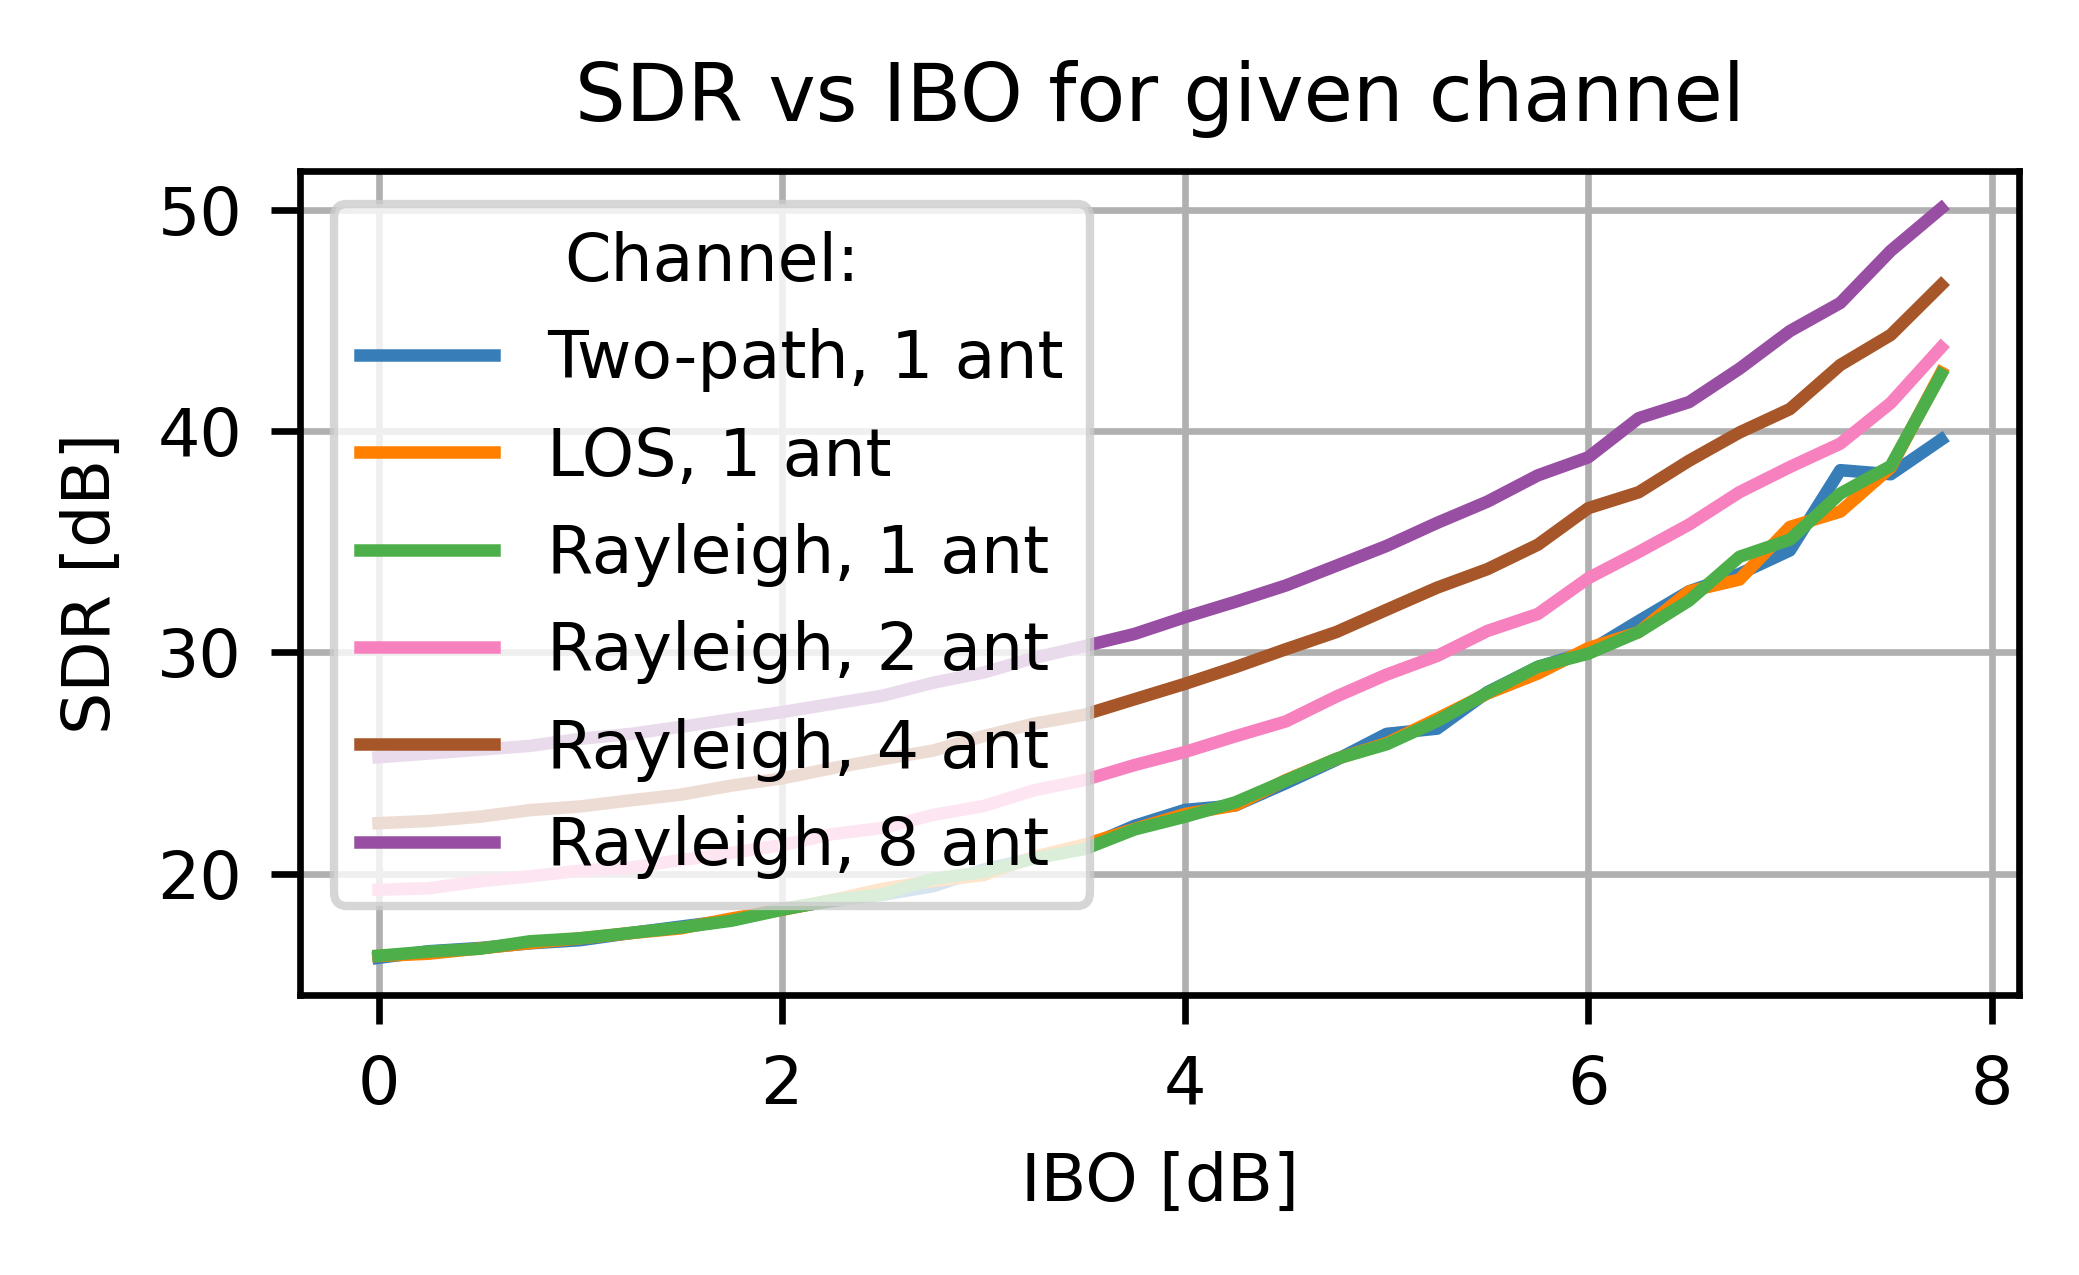
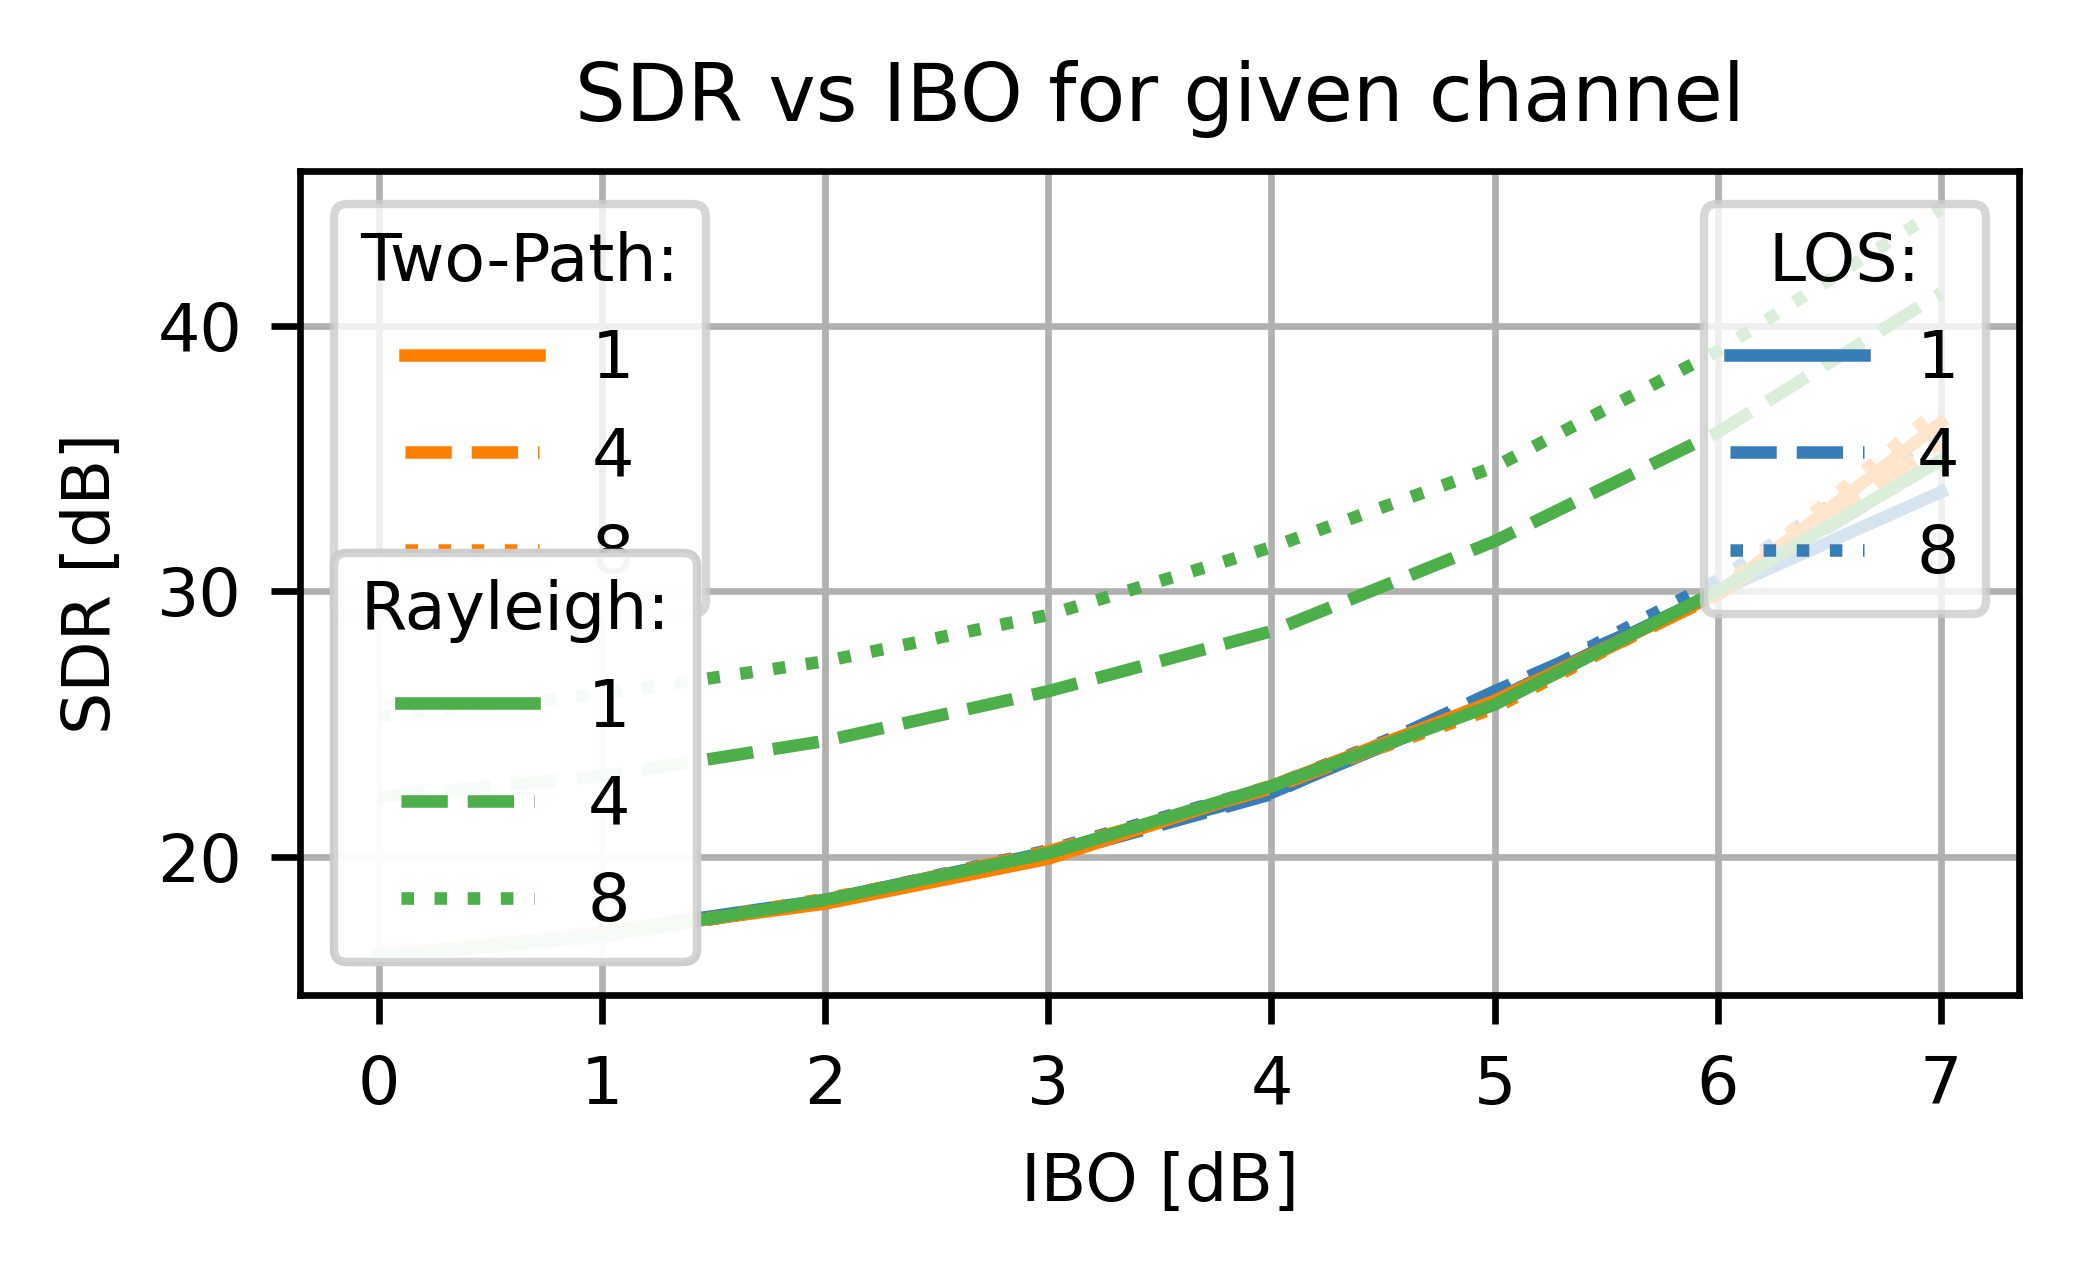
Modified the plotting style of sdr vs ibo vs channel vs num ant

diff --git a/main_beampatterns_plotting/main_sdr_vs_ibo_vs_channel_comparison.py b/main_beampatterns_plotting/main_sdr_vs_ibo_vs_channel_comparison.py
@@ -23,10 +23,10 @@ set_latex_plot_style()
 print("Multi antenna processing init!")
 bit_rng = np.random.default_rng(4321)
 
-ibo_arr = np.arange(0, 8.0, 0.1)
+ibo_arr = np.arange(0, 8.0, 1)
 print("IBO values:", ibo_arr)
 
-n_ant_arr = [1,2,4]
+n_ant_arr = [1, 4, 32]
 print("N ANT values:", n_ant_arr)
 
 my_mod = modulation.OfdmQamModem(constel_size=64, n_fft=4096, n_sub_carr=1024, cp_len=128)
@@ -43,14 +43,6 @@ my_array = antenna_arrray.LinearArray(n_elements=np.min(n_ant_arr), base_transce
                                       wav_len_spacing=0.5, cord_x=0, cord_y=0, cord_z=15)
 my_rx.set_position(cord_x=212, cord_y=212, cord_z=1.5)
 
-my_miso_los_chan = channel.MisoLosFd()
-my_miso_los_chan.calc_channel_mat(tx_transceivers=my_array.array_elements, rx_transceiver=my_rx,
-                                  skip_attenuation=False)
-my_miso_two_path_chan = channel.MisoTwoPathFd()
-my_miso_two_path_chan.calc_channel_mat(tx_transceivers=my_array.array_elements, rx_transceiver=my_rx,
-                                       skip_attenuation=False)
-chan_lst = [my_miso_two_path_chan, my_miso_los_chan]
-
 # %%
 psd_nfft = 4096
 n_samp_per_seg = 1024
@@ -58,128 +50,141 @@ n_snapshots = 30
 
 # %%
 # plot PSD for chosen point/angle
-sdr_at_ibo_per_chan = []
+sdr_at_ibo_per_n_ant = []
 # direct visibility channels - increasing antennas does not increase SDR - run for lowest value of n_ant_arr
-for chan_idx, chan_obj in enumerate(chan_lst):
-    start_time = time.time()
-    print("--- Start time: %s ---" % datetime.now().strftime('%Y-%m-%d %H:%M:%S'))
-    my_miso_chan = chan_obj
-    channel_mat_at_point_fd = my_miso_chan.get_channel_mat_fd()
-    my_array.set_precoding_matrix(channel_mat_fd=channel_mat_at_point_fd, mr_precoding=True)
-    sdr_at_ibo = np.zeros(len(ibo_arr))
-
-    for ibo_idx, ibo_val_db in enumerate(ibo_arr):
-        my_array.update_distortion(ibo_db=ibo_val_db, avg_sample_pow=my_mod.avg_sample_power)
-        my_rx.update_distortion(ibo_db=ibo_val_db)
-
-        rx_ofdm_sc_accum = []
-        clean_rx_ofdm_sc_accum = []
-
-        for snap_idx in range(n_snapshots):
-            tx_bits = bit_rng.choice((0, 1), my_tx.modem.n_bits_per_ofdm_sym)
-            arr_tx_sig_fd, clean_sig_mat_fd = my_array.transmit(in_bits=tx_bits, out_domain_fd=True, return_both=True)
-
-            rx_sig_fd = my_miso_chan.propagate(in_sig_mat=arr_tx_sig_fd)
-            rx_sig_td = utilities.to_time_domain(rx_sig_fd)
-            rx_sc_ofdm_symb_fd = np.concatenate(
-                (rx_sig_fd[-my_mod.n_sub_carr // 2:], rx_sig_fd[1:(my_mod.n_sub_carr // 2) + 1]))
-            rx_sc_ofdm_symb_td = utilities.to_time_domain(rx_sc_ofdm_symb_fd)
-
-            clean_rx_sig_fd = my_miso_chan.propagate(in_sig_mat=clean_sig_mat_fd)
-            clean_rx_sig_td = utilities.to_time_domain(clean_rx_sig_fd)
-            clean_sc_ofdm_symb_fd = np.concatenate(
-                (clean_rx_sig_fd[-my_mod.n_sub_carr // 2:], clean_rx_sig_fd[1:(my_mod.n_sub_carr // 2) + 1]))
-            clean_sc_ofdm_symb_td = utilities.to_time_domain(clean_sc_ofdm_symb_fd)
-
-            rx_ofdm_sc_accum.append(rx_sc_ofdm_symb_fd)
-            clean_rx_ofdm_sc_accum.append(clean_sc_ofdm_symb_fd)
-
-        rx_sig_accum_arr = np.concatenate(rx_ofdm_sc_accum).ravel()
-        clean_rx_sig_accum_arr = np.concatenate(clean_rx_ofdm_sc_accum).ravel()
-        sc_ofdm_distortion_sig = rx_sig_accum_arr - my_rx.modem.alpha * clean_rx_sig_accum_arr
-
-        # dist_ofdm_symb_freq_arr, dist_ofdm_symb_psd_arr = welch(sc_ofdm_distortion_sig, fs=psd_nfft, nfft=psd_nfft,
-        #                                                         nperseg=n_samp_per_seg, return_onesided=False)
-        # clean_ofdm_symb_freq_arr, clean_ofdm_symb_psd_arr = welch(clean_rx_sig_accum_arr, fs=psd_nfft, nfft=psd_nfft,
-        #                                                           nperseg=n_samp_per_seg, return_onesided=False)
-        # sdr_at_ibo[ibo_idx] = to_db(np.sum(clean_ofdm_symb_psd_arr)/np.sum(dist_ofdm_symb_psd_arr))
-
-        sdr_at_ibo[ibo_idx] = to_db(
-            np.sum(np.power(np.abs(clean_rx_sig_accum_arr), 2)) / np.sum(np.power(np.abs(sc_ofdm_distortion_sig), 2)))
-
-    sdr_at_ibo_per_chan.append(sdr_at_ibo)
-    print("--- Computation time: %f ---" % (time.time() - start_time))
-
-# for rayleigh channel
-sdr_at_ibo_per_rayleigh = []
 for n_ant_idx, n_ant_val in enumerate(n_ant_arr):
-    start_time = time.time()
-    print("--- Start time: %s ---" % datetime.now().strftime('%Y-%m-%d %H:%M:%S'))
+    sdr_at_ibo_per_chan = []
     my_array = antenna_arrray.LinearArray(n_elements=n_ant_val, base_transceiver=my_tx, center_freq=int(3.5e9),
                                           wav_len_spacing=0.5, cord_x=0, cord_y=0, cord_z=15)
 
-    my_miso_rayleigh_chan = channel.RayleighMisoFd(tx_transceivers=my_array.array_elements, rx_transceiver=my_rx, seed=1234)
-    my_miso_chan = my_miso_rayleigh_chan
+    my_miso_los_chan = channel.MisoLosFd()
+    my_miso_los_chan.calc_channel_mat(tx_transceivers=my_array.array_elements, rx_transceiver=my_rx,
+                                      skip_attenuation=False)
+    my_miso_two_path_chan = channel.MisoTwoPathFd()
+    my_miso_two_path_chan.calc_channel_mat(tx_transceivers=my_array.array_elements, rx_transceiver=my_rx,
+                                           skip_attenuation=False)
 
-    channel_mat_at_point_fd = my_miso_chan.get_channel_mat_fd()
-    my_array.set_precoding_matrix(channel_mat_fd=channel_mat_at_point_fd, mr_precoding=True)
-    sdr_at_ibo = np.zeros(len(ibo_arr))
+    my_miso_rayleigh_chan = channel.RayleighMisoFd(tx_transceivers=my_array.array_elements, rx_transceiver=my_rx,
+                                                   seed=1234)
 
-    for ibo_idx, ibo_val_db in enumerate(ibo_arr):
-        my_array.update_distortion(ibo_db=ibo_val_db, avg_sample_pow=my_mod.avg_sample_power)
-        my_rx.update_distortion(ibo_db=ibo_val_db)
+    chan_lst = [my_miso_two_path_chan, my_miso_los_chan, my_miso_rayleigh_chan]
 
-        rx_ofdm_sc_accum = []
-        clean_rx_ofdm_sc_accum = []
+    for chan_idx, chan_obj in enumerate(chan_lst):
+        start_time = time.time()
+        print("--- Start time: %s ---" % datetime.now().strftime('%Y-%m-%d %H:%M:%S'))
+        my_miso_chan = chan_obj
+        channel_mat_at_point_fd = my_miso_chan.get_channel_mat_fd()
+        my_array.set_precoding_matrix(channel_mat_fd=channel_mat_at_point_fd, mr_precoding=True)
 
-        for snap_idx in range(n_snapshots):
-            tx_bits = bit_rng.choice((0, 1), my_tx.modem.n_bits_per_ofdm_sym)
-            arr_tx_sig_fd, clean_sig_mat_fd = my_array.transmit(in_bits=tx_bits, out_domain_fd=True, return_both=True)
+        sdr_at_ibo = np.zeros(len(ibo_arr))
+        for ibo_idx, ibo_val_db in enumerate(ibo_arr):
+            my_array.update_distortion(ibo_db=ibo_val_db, avg_sample_pow=my_mod.avg_sample_power)
+            my_rx.update_distortion(ibo_db=ibo_val_db)
 
-            rx_sig_fd = my_miso_chan.propagate(in_sig_mat=arr_tx_sig_fd)
-            rx_sig_td = utilities.to_time_domain(rx_sig_fd)
-            rx_sc_ofdm_symb_fd = np.concatenate(
-                (rx_sig_fd[-my_mod.n_sub_carr // 2:], rx_sig_fd[1:(my_mod.n_sub_carr // 2) + 1]))
-            rx_sc_ofdm_symb_td = utilities.to_time_domain(rx_sc_ofdm_symb_fd)
+            rx_ofdm_sc_accum = []
+            clean_rx_ofdm_sc_accum = []
 
-            clean_rx_sig_fd = my_miso_chan.propagate(in_sig_mat=clean_sig_mat_fd)
-            clean_rx_sig_td = utilities.to_time_domain(clean_rx_sig_fd)
-            clean_sc_ofdm_symb_fd = np.concatenate(
-                (clean_rx_sig_fd[-my_mod.n_sub_carr // 2:], clean_rx_sig_fd[1:(my_mod.n_sub_carr // 2) + 1]))
-            clean_sc_ofdm_symb_td = utilities.to_time_domain(clean_sc_ofdm_symb_fd)
+            for snap_idx in range(n_snapshots):
+                tx_bits = bit_rng.choice((0, 1), my_tx.modem.n_bits_per_ofdm_sym)
+                arr_tx_sig_fd, clean_sig_mat_fd = my_array.transmit(in_bits=tx_bits, out_domain_fd=True,
+                                                                    return_both=True)
 
-            rx_ofdm_sc_accum.append(rx_sc_ofdm_symb_fd)
-            clean_rx_ofdm_sc_accum.append(clean_sc_ofdm_symb_fd)
+                rx_sig_fd = my_miso_chan.propagate(in_sig_mat=arr_tx_sig_fd)
+                rx_sig_td = utilities.to_time_domain(rx_sig_fd)
+                rx_sc_ofdm_symb_fd = np.concatenate(
+                    (rx_sig_fd[-my_mod.n_sub_carr // 2:], rx_sig_fd[1:(my_mod.n_sub_carr // 2) + 1]))
+                rx_sc_ofdm_symb_td = utilities.to_time_domain(rx_sc_ofdm_symb_fd)
 
-        rx_sig_accum_arr = np.concatenate(rx_ofdm_sc_accum).ravel()
-        clean_rx_sig_accum_arr = np.concatenate(clean_rx_ofdm_sc_accum).ravel()
-        sc_ofdm_distortion_sig = rx_sig_accum_arr - my_rx.modem.alpha * clean_rx_sig_accum_arr
+                clean_rx_sig_fd = my_miso_chan.propagate(in_sig_mat=clean_sig_mat_fd)
+                clean_rx_sig_td = utilities.to_time_domain(clean_rx_sig_fd)
+                clean_sc_ofdm_symb_fd = np.concatenate(
+                    (clean_rx_sig_fd[-my_mod.n_sub_carr // 2:], clean_rx_sig_fd[1:(my_mod.n_sub_carr // 2) + 1]))
+                clean_sc_ofdm_symb_td = utilities.to_time_domain(clean_sc_ofdm_symb_fd)
 
-        # dist_ofdm_symb_freq_arr, dist_ofdm_symb_psd_arr = welch(sc_ofdm_distortion_sig, fs=psd_nfft, nfft=psd_nfft,
-        #                                                         nperseg=n_samp_per_seg, return_onesided=False)
-        # clean_ofdm_symb_freq_arr, clean_ofdm_symb_psd_arr = welch(clean_rx_sig_accum_arr, fs=psd_nfft, nfft=psd_nfft,
-        #                                                           nperseg=n_samp_per_seg, return_onesided=False)
-        # sdr_at_ibo[ibo_idx] = to_db(np.sum(clean_ofdm_symb_psd_arr)/np.sum(dist_ofdm_symb_psd_arr))
+                rx_ofdm_sc_accum.append(rx_sc_ofdm_symb_fd)
+                clean_rx_ofdm_sc_accum.append(clean_sc_ofdm_symb_fd)
 
-        sdr_at_ibo[ibo_idx] = to_db(
-            np.sum(np.power(np.abs(clean_rx_sig_accum_arr), 2)) / np.sum(np.power(np.abs(sc_ofdm_distortion_sig), 2)))
+            rx_sig_accum_arr = np.concatenate(rx_ofdm_sc_accum).ravel()
+            clean_rx_sig_accum_arr = np.concatenate(clean_rx_ofdm_sc_accum).ravel()
+            sc_ofdm_distortion_sig = rx_sig_accum_arr - my_rx.modem.alpha * clean_rx_sig_accum_arr
 
-    sdr_at_ibo_per_rayleigh.append(sdr_at_ibo)
-    print("--- Computation time: %f ---" % (time.time() - start_time))
+            # dist_ofdm_symb_freq_arr, dist_ofdm_symb_psd_arr = welch(sc_ofdm_distortion_sig, fs=psd_nfft, nfft=psd_nfft,
+            #                                                         nperseg=n_samp_per_seg, return_onesided=False)
+            # clean_ofdm_symb_freq_arr, clean_ofdm_symb_psd_arr = welch(clean_rx_sig_accum_arr, fs=psd_nfft, nfft=psd_nfft,
+            #                                                           nperseg=n_samp_per_seg, return_onesided=False)
+            # sdr_at_ibo[ibo_idx] = to_db(np.sum(clean_ofdm_symb_psd_arr)/np.sum(dist_ofdm_symb_psd_arr))
+
+            sdr_at_ibo[ibo_idx] = to_db(
+                np.sum(np.power(np.abs(clean_rx_sig_accum_arr), 2)) / np.sum(
+                    np.power(np.abs(sc_ofdm_distortion_sig), 2)))
+
+        sdr_at_ibo_per_chan.append(sdr_at_ibo)
+        print("--- Computation time: %f ---" % (time.time() - start_time))
+    sdr_at_ibo_per_n_ant.append(sdr_at_ibo_per_chan)
 
 # %%
 # plot signal to distortion ratio vs ibo
 fig1, ax1 = plt.subplots(1, 1)
-for chan_idx, chan_obj in enumerate(chan_lst):
-    ax1.plot(ibo_arr, sdr_at_ibo_per_chan[chan_idx], label=str(chan_obj)+(", %d ant" % np.min(n_ant_arr)))
-for n_ant_idx, n_ant_val in enumerate(n_ant_arr):
-    ax1.plot(ibo_arr, sdr_at_ibo_per_rayleigh[n_ant_idx], label="Rayleigh, %d ant" % n_ant_val)
+p1, = ax1.plot(ibo_arr, sdr_at_ibo_per_n_ant[0][0], '-', color='#377eb8', label="1")
+p2, = ax1.plot(ibo_arr, sdr_at_ibo_per_n_ant[1][0], '--', color='#377eb8', label="4")
+p3, = ax1.plot(ibo_arr, sdr_at_ibo_per_n_ant[2][0], ':', color='#377eb8', label="32")
+
+# leg1 = ax1.legend([p1,p2,p3], n_ant_arr, loc=1, title="LOS:")
+# plt.gca().add_artist(leg1)
+
+p4, = ax1.plot(ibo_arr, sdr_at_ibo_per_n_ant[0][1], '-', color='#ff7f00', label="T1")
+p5, = ax1.plot(ibo_arr, sdr_at_ibo_per_n_ant[1][1], '--', color='#ff7f00', label="4")
+p6, = ax1.plot(ibo_arr, sdr_at_ibo_per_n_ant[2][1], ':', color='#ff7f00', label="32")
+
+# leg2 = ax1.legend([p4,p5,p6], n_ant_arr, loc=2, title="Two-Path:")
+# plt.gca().add_artist(leg2)
+
+p7, = ax1.plot(ibo_arr, sdr_at_ibo_per_n_ant[0][2], '-', color='#4daf4a', label="1")
+p8, = ax1.plot(ibo_arr, sdr_at_ibo_per_n_ant[1][2], '--', color='#4daf4a', label="4")
+p9, = ax1.plot(ibo_arr, sdr_at_ibo_per_n_ant[2][2], ':', color='#4daf4a', label="32")
+
+# leg3 = ax1.legend([p7,p8,p9], n_ant_arr, loc=3, title="Rayleigh:")
+# plt.gca().add_artist(leg3)
+
+import matplotlib.patches as mpatches
+
+los = mpatches.Patch(color='#377eb8', label='LOS')
+twopath = mpatches.Patch(color='#ff7f00', label='Two-path')
+rayleigh = mpatches.Patch(color='#4daf4a', label='Rayleigh')
+
+leg1 = plt.legend(handles=[los, twopath, rayleigh], title="Channel:", loc="upper left")
+plt.gca().add_artist(leg1)
+
+import matplotlib.lines as mlines
+
+n_ant1 = mlines.Line2D([0], [0], linestyle='-', color='k', label='1')
+n_ant4 = mlines.Line2D([0], [0], linestyle='--', color='k', label='4')
+n_ant32 = mlines.Line2D([0], [0], linestyle=':', color='k', label='32')
+leg2 = plt.legend(handles=[n_ant1, n_ant4, n_ant32], title="N antennas:", loc="lower right")
+plt.gca().add_artist(leg2)
+#
+# p10, = ax1.plot([0], marker='None',
+#            linestyle='None', label='dummy-tophead')
+# p11, = ax1.plot([0],  marker='None',
+#            linestyle='None', label='dummy-empty')
+# p12, = ax1.plot([0],  marker='None',
+#            linestyle='None', label='dummy-empty')
+#
+# leg = ax1.legend([p10, p11, p12, p10, p11, p12, p10, p11, p12, p1, p2, p3, p4, p5, p6, p7, p8, p9],
+#               ["LOS:", '', '', "Two-path:", '', '', "Rayleigh:", '', ''] + n_ant_arr + n_ant_arr + n_ant_arr,
+#               ncol=2) # Two columns, horizontal group labels
+
+# leg= ax1.legend([p11, p1, p2, p3, p11, p4, p5, p6, p11, p7, p8, p9],
+#               ["LOS"] + n_ant_arr + ["Two-path"] + n_ant_arr + ["Rayleigh"] + n_ant_arr,
+#               loc="lower right", ncol=3, title="Channel and N antennas:", columnspacing=0.2) # Two columns, horizontal group labels
+#
+
 
 ax1.set_title("SDR vs IBO for given channel")
 ax1.set_xlabel("IBO [dB]")
 ax1.set_ylabel("SDR [dB]")
 ax1.grid()
-ax1.legend(title="Channel:")
+# ax1.legend(title="Channel:")
 plt.tight_layout()
 plt.savefig(
     "../figs/sdr_vs_ibo_per_channel_ibo%dto%d_%dnant.png" % (
